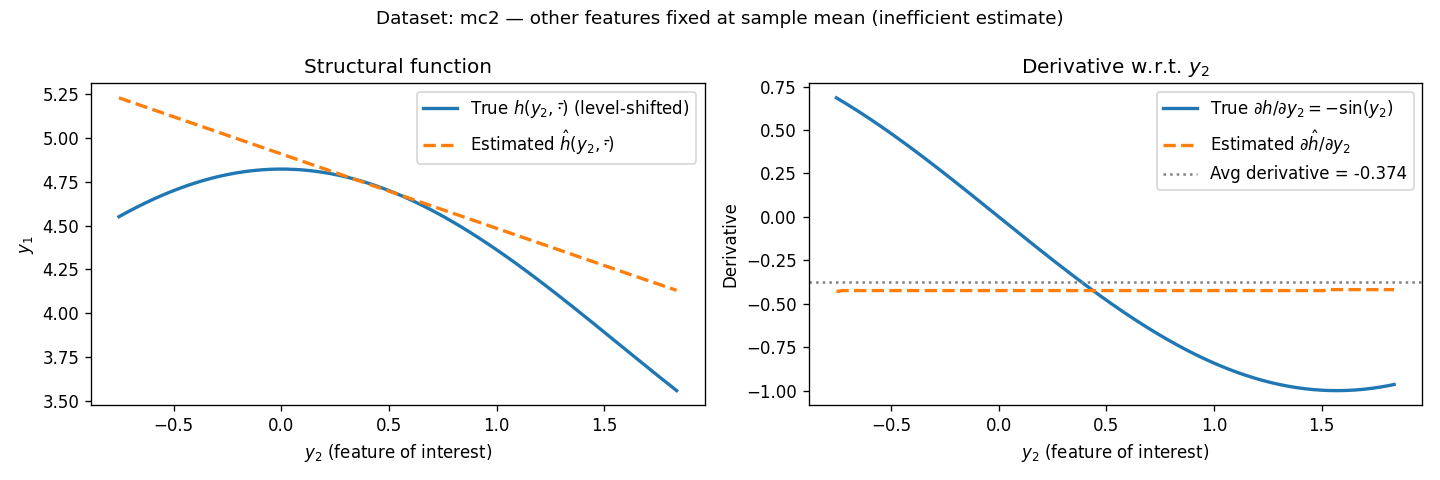
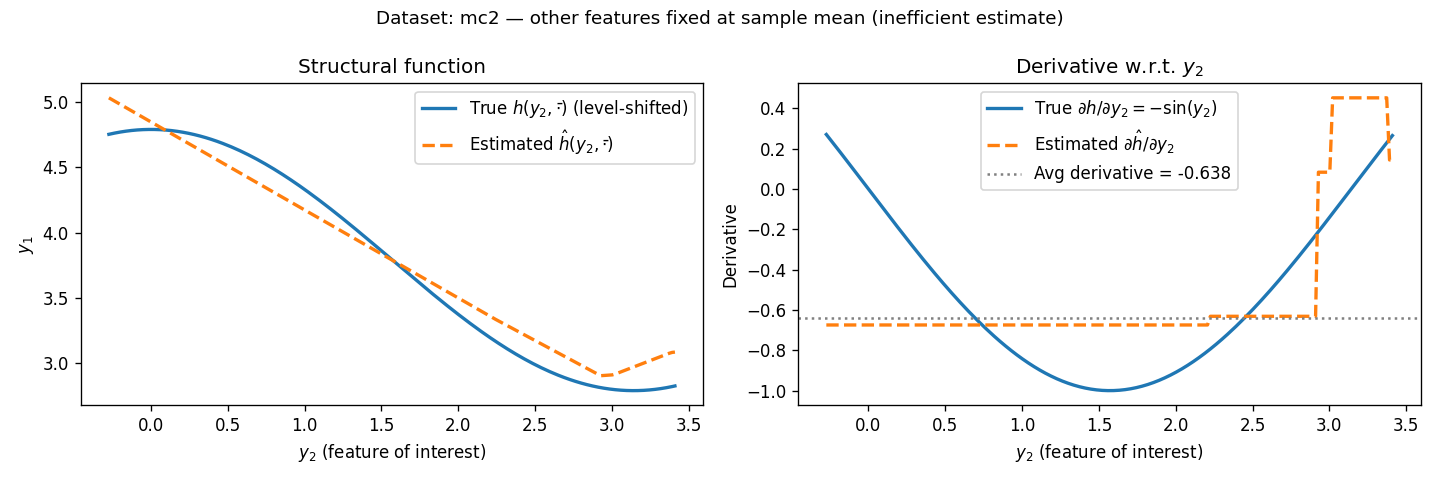
Fix signal strength thing

diff --git a/dgp/mc2.py b/dgp/mc2.py
@@ -50,7 +50,7 @@ class MC2(MC1):
             #     5 * x2 ** 3 + 0.5 * x1 + np.sin(3.14 * x3) + x1 * x3
             # )  # np.sqrt((5 * x1 + 2 * x2 ** 2 + 0.5 * x3 ** 2) / 7.5)
 
-        y2 = x1 + 0.5 * eps2 + eps
+        y2 = 3.0 * x1 + 0.5 * eps2 + eps
         y3 = stats.norm.cdf(u3 + 0.5 * eps3)
         x_high_dim = None
 
